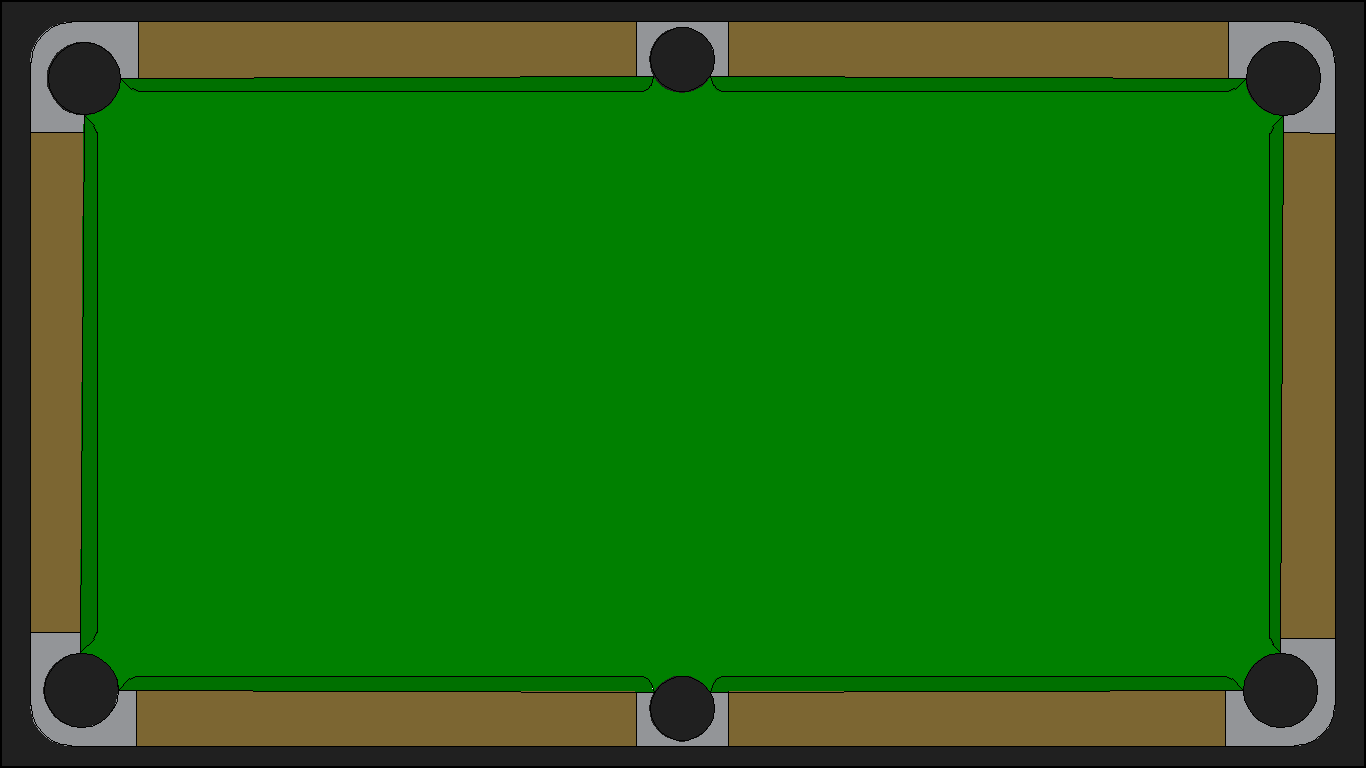
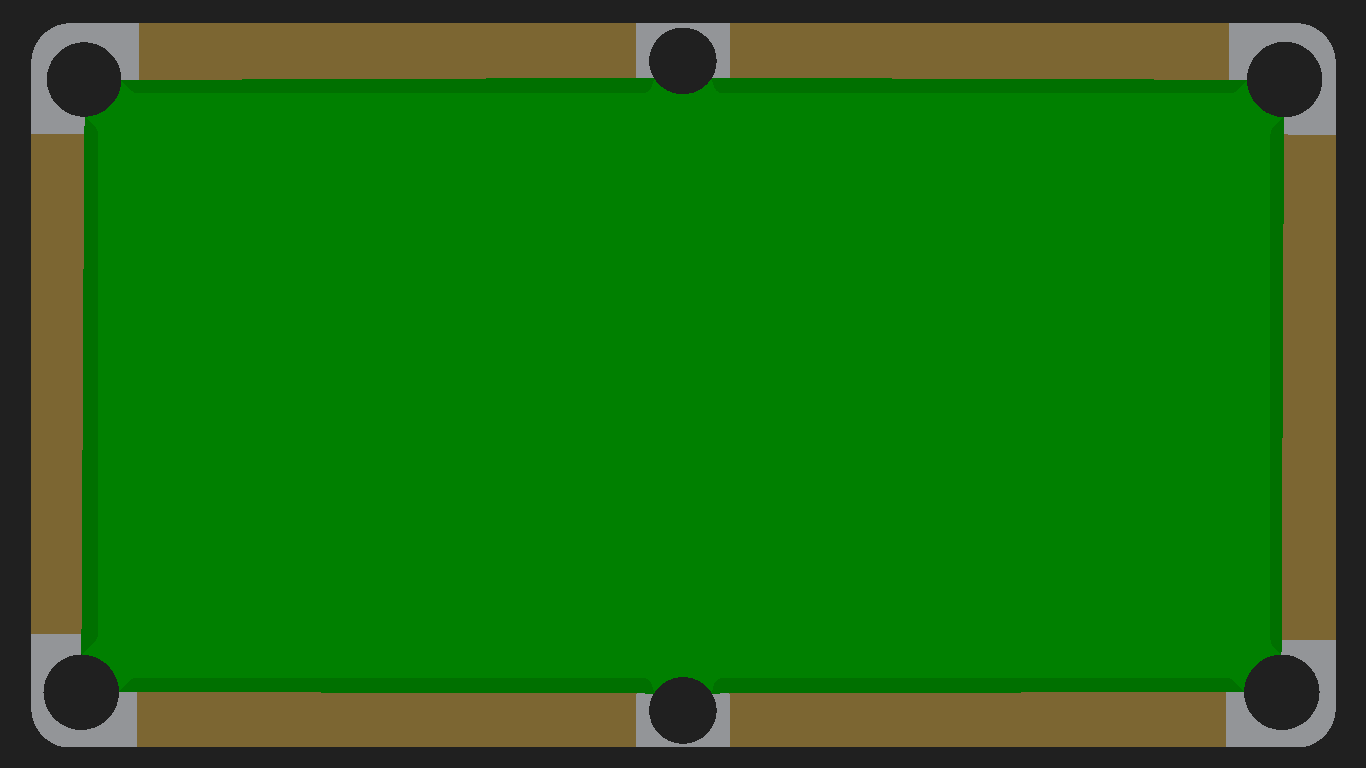
优化背景贴图
24-08-21 17:15
    现在弄好了球案的贴图，也成功导入了。不过每帧都刷新screen和bg这个两个surface，帧数太低了。准备把所有的元素都绘制到bg上，然后再把bg绘制到screen上。

24-08-21 18:21
    无意间发现，不是绘制图像导致卡顿，而是大面积的透明色使其卡顿，把set_colorkey()删掉就不卡了

diff --git a/src/game.py b/src/game.py
@@ -13,7 +13,7 @@ from side import Side
 from stick import Stick
 from hole import Hole
 from data_dic import ball_data,arcSide_data,lineSide_data
-from const import BLACK,WHITE,HOLE,TRANSPARENT,GREEN,START_LOCATION
+from const import BLACK,WHITE,HOLE,TRANSPARENT,START_LOCATION
 
 
 class Game(object):
@@ -21,15 +21,11 @@ class Game(object):
         self.sc = sc
         self.tpsc = tpsc
         self.white_text = pygame.font.Font(None, 30)
-        # self.bg = pygame.image.load(r"E:\Billiard God\IamBilliardGod\pic\side.png").convert_alpha()
-        # self.bg.set_colorkey(GREEN)
+        self.bg = pygame.image.load(r"E:\Billiard God\IamBilliardGod\pic\side.png").convert()
 
-        self.Balls = []
-        self.Sides = []
-        self.Holes = []
-        self.Stick = None
-        self.Balls_get = []
-        
+    def startGame(self):
+        # 状态重置
+        self.Stick = None # 球杆对象
         self.paused = False #是否暂停
         self.static = True # 是否击球结束
         self.charge = False #总共有False、True、'Restore'三种状态，分别对应平常、蓄力、释放三种状态
@@ -37,9 +33,35 @@ class Game(object):
         self.mouseOutside = False # 是否鼠标位于界外
         self.aiming = 'left' # 处于左键、右键瞄准状态
         self.timing = []
-        
-    def draw(self,fps,mousePos):        
-        self.sc.fill(GREEN)
+        self.Balls = []
+        self.Sides = []
+        self.Holes = []
+        self.Balls_get = []
+
+        # 初始化球类
+        START_POS = self.allocateStartPos(START_LOCATION)
+        for i in range(len(ball_data)):
+            pos = START_POS[i]
+            b = Ball(pos,i)
+            self.Balls.append(b)
+        # 初始化球杆子
+        self.Stick = Stick("E:/Billiard God/IamBilliardGod/pic/stick.png")
+        # 初始化球洞
+        for holepos in HOLE:
+            hole = Hole(holepos)
+            self.Holes.append(hole)
+        # 初始化曲线边界
+        for arc in arcSide_data.values():
+            arcside = Side(True, arc)
+            self.Sides.append(arcside)
+        # 初始化直线边界
+        for line in lineSide_data.values():
+            lineside = Side(False, line)
+            self.Sides.append(lineside)
+            
+    def draw(self,fps,mousePos):                
+        # 背景图
+        self.sc.blit(self.bg,(0,0))
         self.tpsc.fill(TRANSPARENT)
         
         #球洞绘制
@@ -48,8 +70,6 @@ class Game(object):
         #边界绘制
         for side in self.Sides:
             side.draw(self.sc)
-        # 背景图
-        # self.sc.blit(self.bg,(0,0))
         #球体绘制
         for ball in self.Balls:
             ball.draw(self.sc)
@@ -62,6 +82,7 @@ class Game(object):
             else:
                 pygame.draw.circle(self.sc, WHITE, mousePos, 18)
                 self.baiqiu = True
+        
         # 文字信息显示
         self.renderFont(fps)
     
@@ -96,43 +117,6 @@ class Game(object):
             self.Stick.rotate(self.whiteBall.pos, mousePos)
         else:# 如果白球不在场
             self.Stick.centerPos = (0,0)
-
-        
-    def startGame(self):
-        # 状态重置
-        self.paused = False #是否暂停
-        self.static = True # 是否击球结束
-        self.aiming = 'left' # 处于左键、右键瞄准状态
-        self.charge = False #总共有False、True、'Restore'三种状态，分别对应平常、蓄力、释放三种状态
-        self.baiqiu = False # 是否要摆球
-        self.mouseOutside = False # 是否鼠标位于界外
-        
-        # 删除现有对象
-        self.Balls.clear()
-        self.Sides.clear()
-        self.Holes.clear()
-        del self.Stick
-
-        # 初始化球类
-        START_POS = self.allocateStartPos(START_LOCATION)
-        for i in range(len(ball_data)):
-            pos = START_POS[i]
-            b = Ball(pos,i)
-            self.Balls.append(b)
-        # 初始化球杆子
-        self.Stick = Stick("E:/Billiard God/IamBilliardGod/pic/stick.png")
-        # 初始化球洞
-        for holepos in HOLE:
-            hole = Hole(holepos)
-            self.Holes.append(hole)
-        # 初始化曲线边界
-        for arc in arcSide_data.values():
-            arcside = Side(True, arc)
-            self.Sides.append(arcside)
-        # 初始化直线边界
-        for line in lineSide_data.values():
-            lineside = Side(False, line)
-            self.Sides.append(lineside)
     
     def xuli(self,xuli_time, mousePos):
         if self.whiteBall:
@@ -182,6 +166,15 @@ class Game(object):
     def aim(self,mousePos):
         if self.aiming == 'right':# 右键瞄准
             pass
+            # angle = math.atan2(mousePos[1]-self.whiteBall.pos[1],mousePos[0]-self.whiteBall.pos[0])
+            # testBall_pos = (self.whiteBall.pos[0] + self.whiteBall.radius * 2 * math.cos(angle),
+            #                 self.whiteBall.pos[1] + self.whiteBall.radius * 2 * math.sin(angle))
+            # self.testBall = Ball(testBall_pos,0)
+            # self.testBall.speed[0] = 10 * math.cos(angle)
+            # self.testBall.speed[1] = 10 * math.sin(angle)
+            # self.testBall.move(self.Balls,self.Sides,self.Holes)
+            # pygame.draw.line(self.sc, WHITE, self.whiteBall.pos, testBall_pos, 2)
+
         elif self.aiming == 'left':# 左键瞄准
             # 创建圆环
             pygame.draw.circle(self.tpsc, WHITE, mousePos, self.whiteBall.radius)
@@ -202,19 +195,27 @@ class Game(object):
         whiteBall = Ball(mousePos,0)
         self.Balls.insert(0,whiteBall)
         
-    def inCourt(self,mousePos):
+    def inCourt(self,mode,mousePos):
         self.testBall = Ball(mousePos,0)
         
         side = self.testBall.collide_side(self.Sides)[0]
-        # other_ball = self.testBall.collide_ball(self.Balls)[0]
+        other_ball = self.testBall.collide_ball(self.Balls)[0]
         get = self.testBall.collide_hole(self.Holes)
         xoutrange = not bool(97.3835<self.testBall.pos.x<1269.9695)
         youtrange = not bool(91.9509<self.testBall.pos.y<676.1886)
-        # 如果边界、球洞任碰其一，并且在球台外边
-        if side or get or xoutrange or youtrange:
-            return False
-        else:
-            return True
+        if mode == 1:# 瞄准环节用（不检测球体）
+            # 如果边界、球洞任碰其一，并且在球台外边
+            if side or get or xoutrange or youtrange:
+                return False
+            else:
+                return True
+        elif mode == 2:# 摆球环节用（检测球体）
+            # 如果边界、球体、球洞任碰其一，并且在球台外边
+            if side or other_ball or get or xoutrange or youtrange:
+                return False
+            else:
+                return True
+
     
     def allocateStartPos(self,pos_list):
         OLD_POS = pos_list.copy()# 防止把源数据全删掉引发错误
@@ -222,8 +223,7 @@ class Game(object):
         posD, posU, pos8, pos0 = (OLD_POS.pop(15), 
                                   OLD_POS.pop(11), 
                                   OLD_POS.pop(5), 
-                                  OLD_POS.pop(0)
-                                  )
+                                  OLD_POS.pop(0))
         # 选取位于右上右下的球号
         indexD, indexU = random.sample([random.randint(1,7),random.randint(9,16)],2)
         NEW_POS = random.sample(OLD_POS,12)# 剩下的位置随机排列

diff --git a/src/main.py b/src/main.py
@@ -26,7 +26,7 @@ while True:
     # 实时检测鼠标是否出界
     if game.static and game.aiming == 'left' and not game.charge:
         # 全场静止且使用左键瞄准未蓄力时
-        if game.inCourt(pygame.mouse.get_pos()):# 未出界
+        if game.inCourt(1,pygame.mouse.get_pos()):# 未出界
             mousePos = pygame.mouse.get_pos()  
             game.mouseOutside = False
         else:# 出界
@@ -45,7 +45,7 @@ while True:
             btn = event.button
             if btn == 1:# 鼠标左键按下
                 # 摆球
-                if game.baiqiu and game.inCourt(pygame.mouse.get_pos()):# 正在摆球且摆球没出界
+                if game.baiqiu and game.inCourt(2,pygame.mouse.get_pos()):# 正在摆球且摆球没出界
                     game.placeWhiteBall(mousePos)
                     game.baiqiu = False
                 # 蓄力
